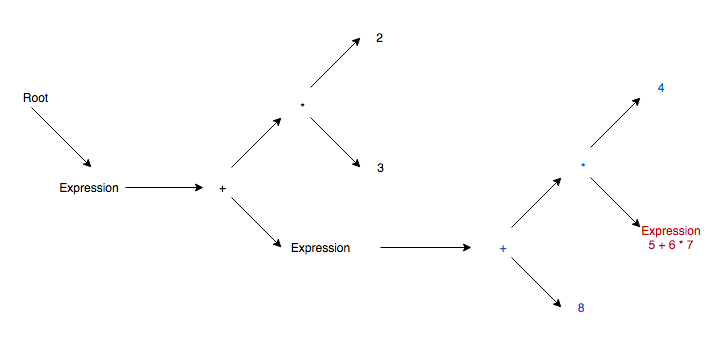
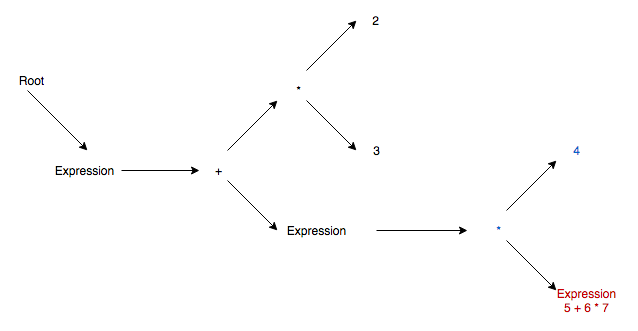
Improve drawings and text in regards to BDMAS parsing

diff --git a/chap-4-parser.md b/chap-4-parser.md
@@ -185,25 +185,32 @@ Step 4 - Addition operator is promoted to top, the multiply operator becomes its
 
 ![BDMAS Parsing Stage 4](https://raw.githubusercontent.com/Virtual-Machine/llvm-tutorial-book/master/diagrams/img/BDMAS_4.png)
 
-Step 5 - First parenthesis expression is parsed. Initially 4 literal is added, then multiplication operator is promoted, then inner parenthesis expression is appended as multiplication operator's child, then addition operator is promoted to top and 8 literal is appended as its child.
+Step 5 - First 4 literal is appended to expression node, then multiplication operator is promoted, and then expression node is appended to multiplication node as active node.
 
 ![BDMAS Parsing Stage 5](https://raw.githubusercontent.com/Virtual-Machine/llvm-tutorial-book/master/diagrams/img/BDMAS_5.png)
 
-Step 6 - Finally inner parenthesis expression is parsed. 5 literal is appended, then addition operator is promoted, then 6 literal is appended, then multiplication operator is promoted, then 7 literal is appended.
+Step 6 - Inner parenthesis expression is parsed, 5 literal to expression node, addition is promoted, 6 literal to addition node, multiplication is promoted, 7 literal to multiplication node.
 
 ![BDMAS Parsing Stage 6](https://raw.githubusercontent.com/Virtual-Machine/llvm-tutorial-book/master/diagrams/img/BDMAS_6.png)
 
+Step 7 - First parenthesis closes so active node jumps to closest expression node parent and then immediately promotes addition binary and appends 8 literal as its child.
+
+![BDMAS Parsing Stage 7](https://raw.githubusercontent.com/Virtual-Machine/llvm-tutorial-book/master/diagrams/img/BDMAS_7.png)
+
+Step 8 - Second parenthesis closes so active node jumps to closest expression node parent and then immediately promotes multiplication, appends literal 9 to multiplication, double promotes subtraction, and then finally appends 1 literal to subtraction node.
+
+![BDMAS Parsing Stage 8](https://raw.githubusercontent.com/Virtual-Machine/llvm-tutorial-book/master/diagrams/img/BDMAS_8.png)
+
 Visualize how the active node is changing as it parses the expressions and inner expressions.
 
-Our parser is going to work similarly to the one above, except rather than isolate parenthesis expressions and parse them seperately, its going to work its way left to right parsing each individual token in sequence during an expression, parenthesis included, and use predefined rules to determine when to generate AST nodes, and where to insert them. It will work out just fine for us because we can say the following is true in our implementation:
+The above approach allows us to parse each token in sequence and handle parenthesis scope because the following is true:
 
 1. Expression nodes act as gatekeepers, preventing operators from promotion beyond their borders.
 2. Expression nodes act as beacons, allowing the closing parenthesis to correctly activate the next required node in the parsing process.
 3. promote and add_child in accordance with the active node should always resolve to the correct place if there are no syntax errors.
 4. We likely can test for these syntax errors and provide user friendly messages if this situation is detected.
 
-
-Indeed, other than some possible changes in the order of children, our implementation of the parser's final output will be identical to a parser that specifically isolates and parses parenthesis expressions seperately. Therefore the algorithm can be simply stated as follows:
+The algorithm can be simply stated as follows:
 
 ```
 Whenever a opening parenthesis is encounted, 
